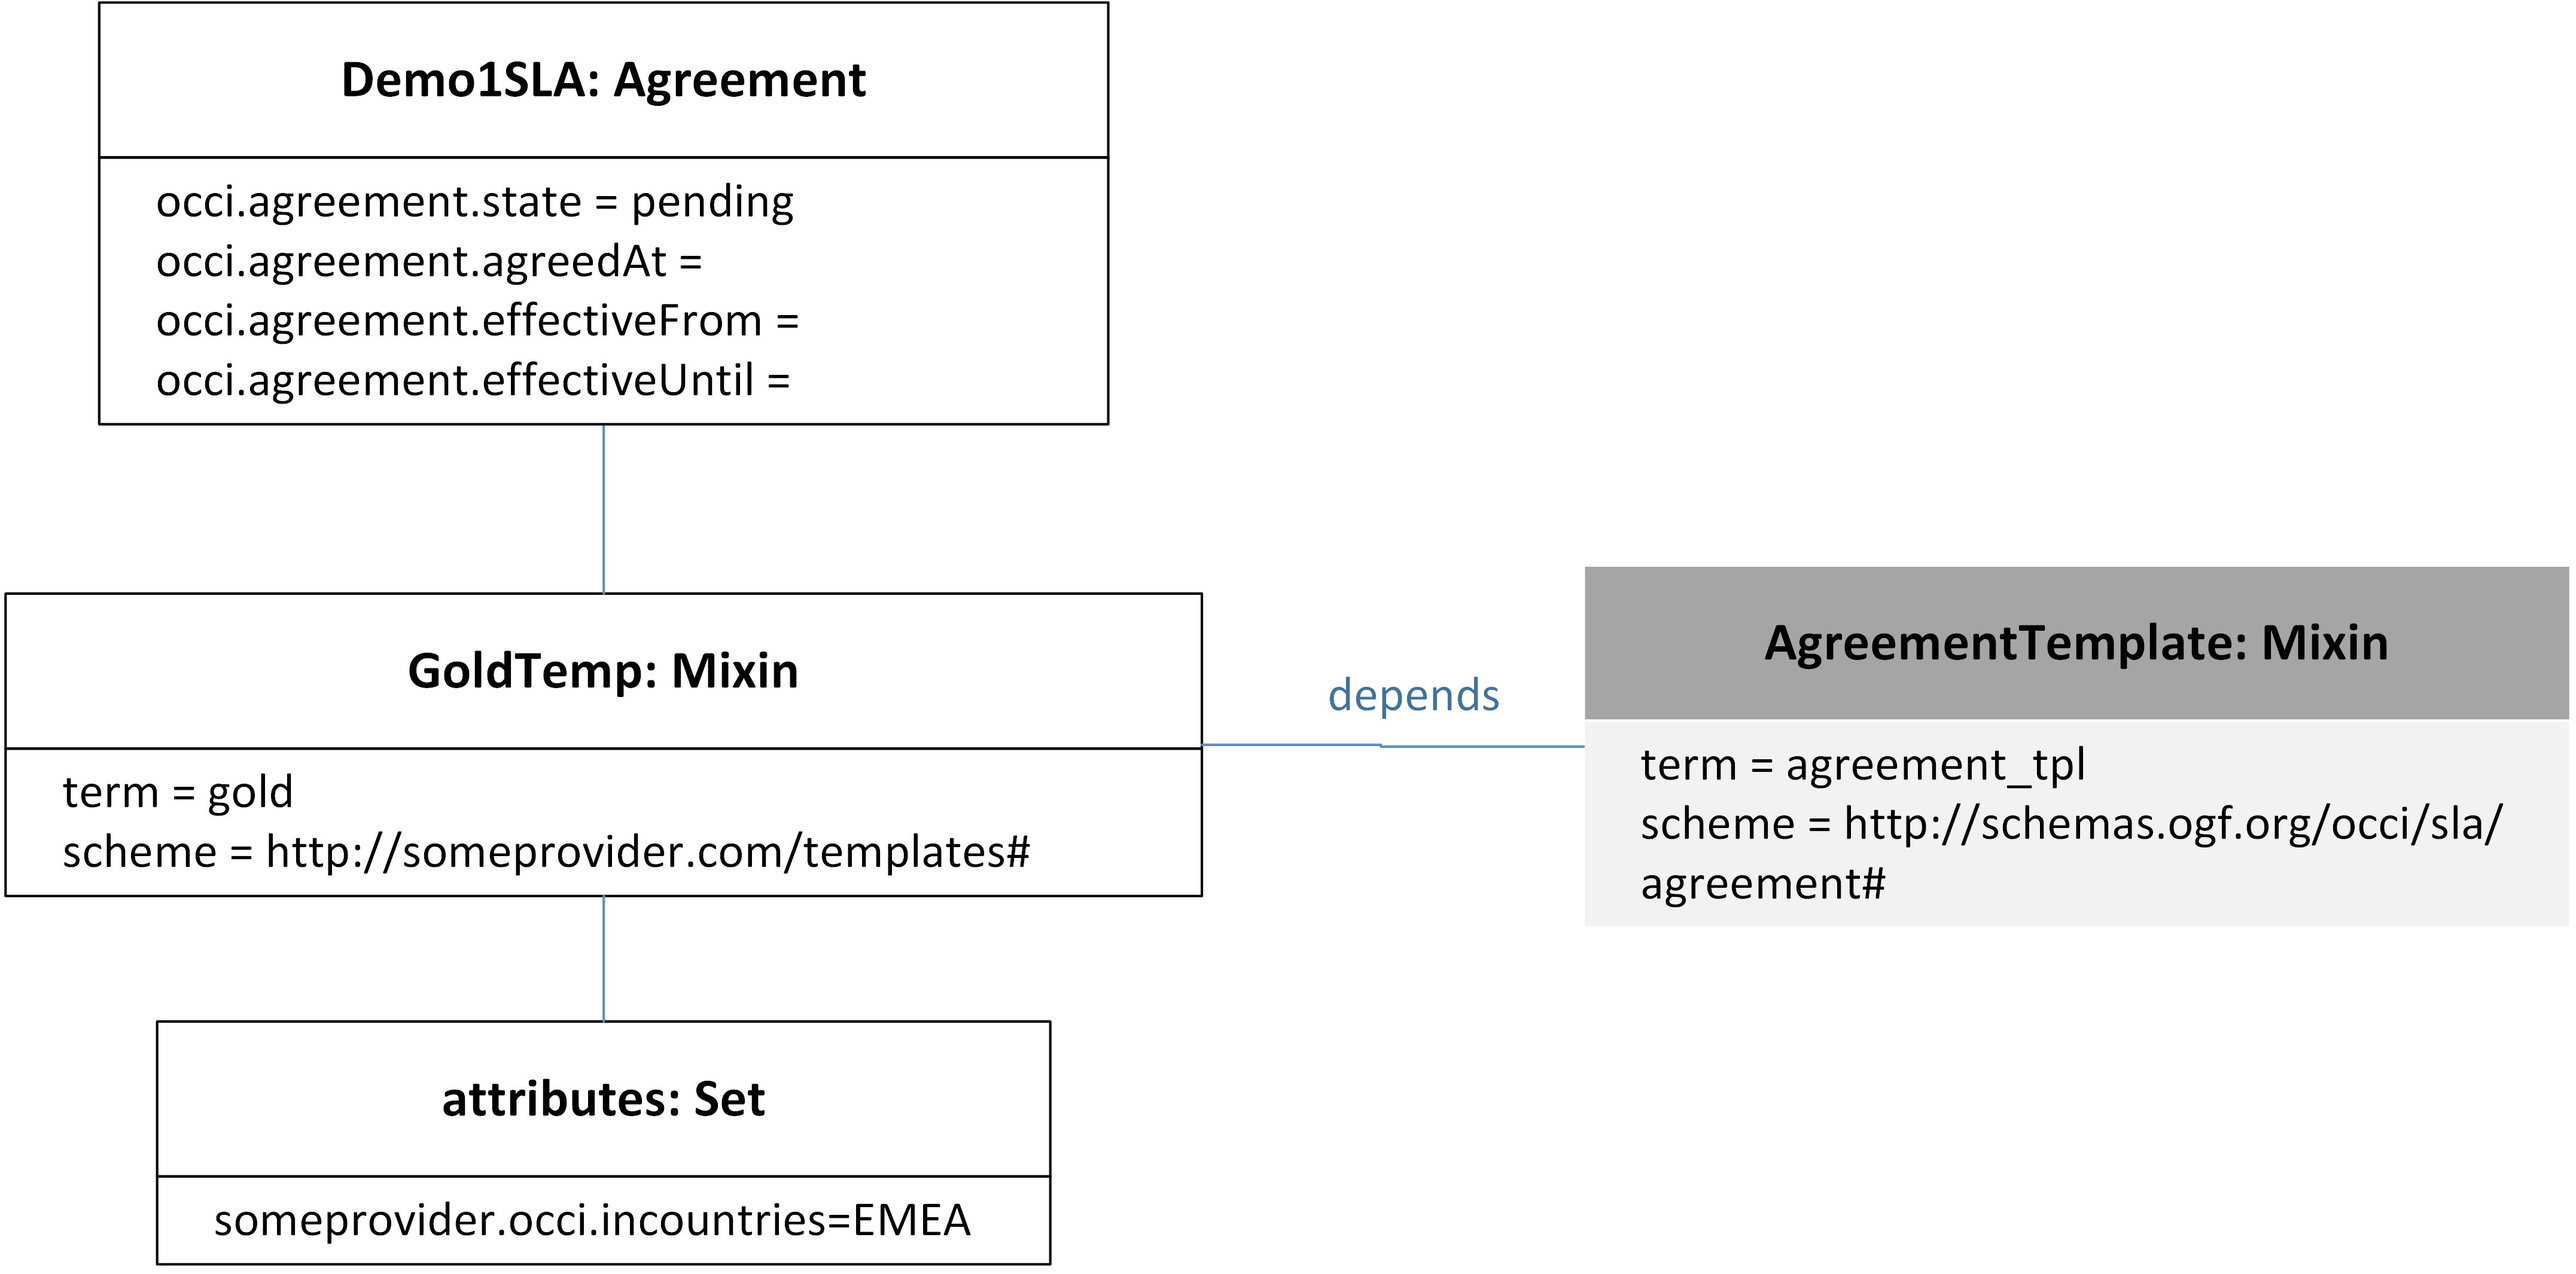
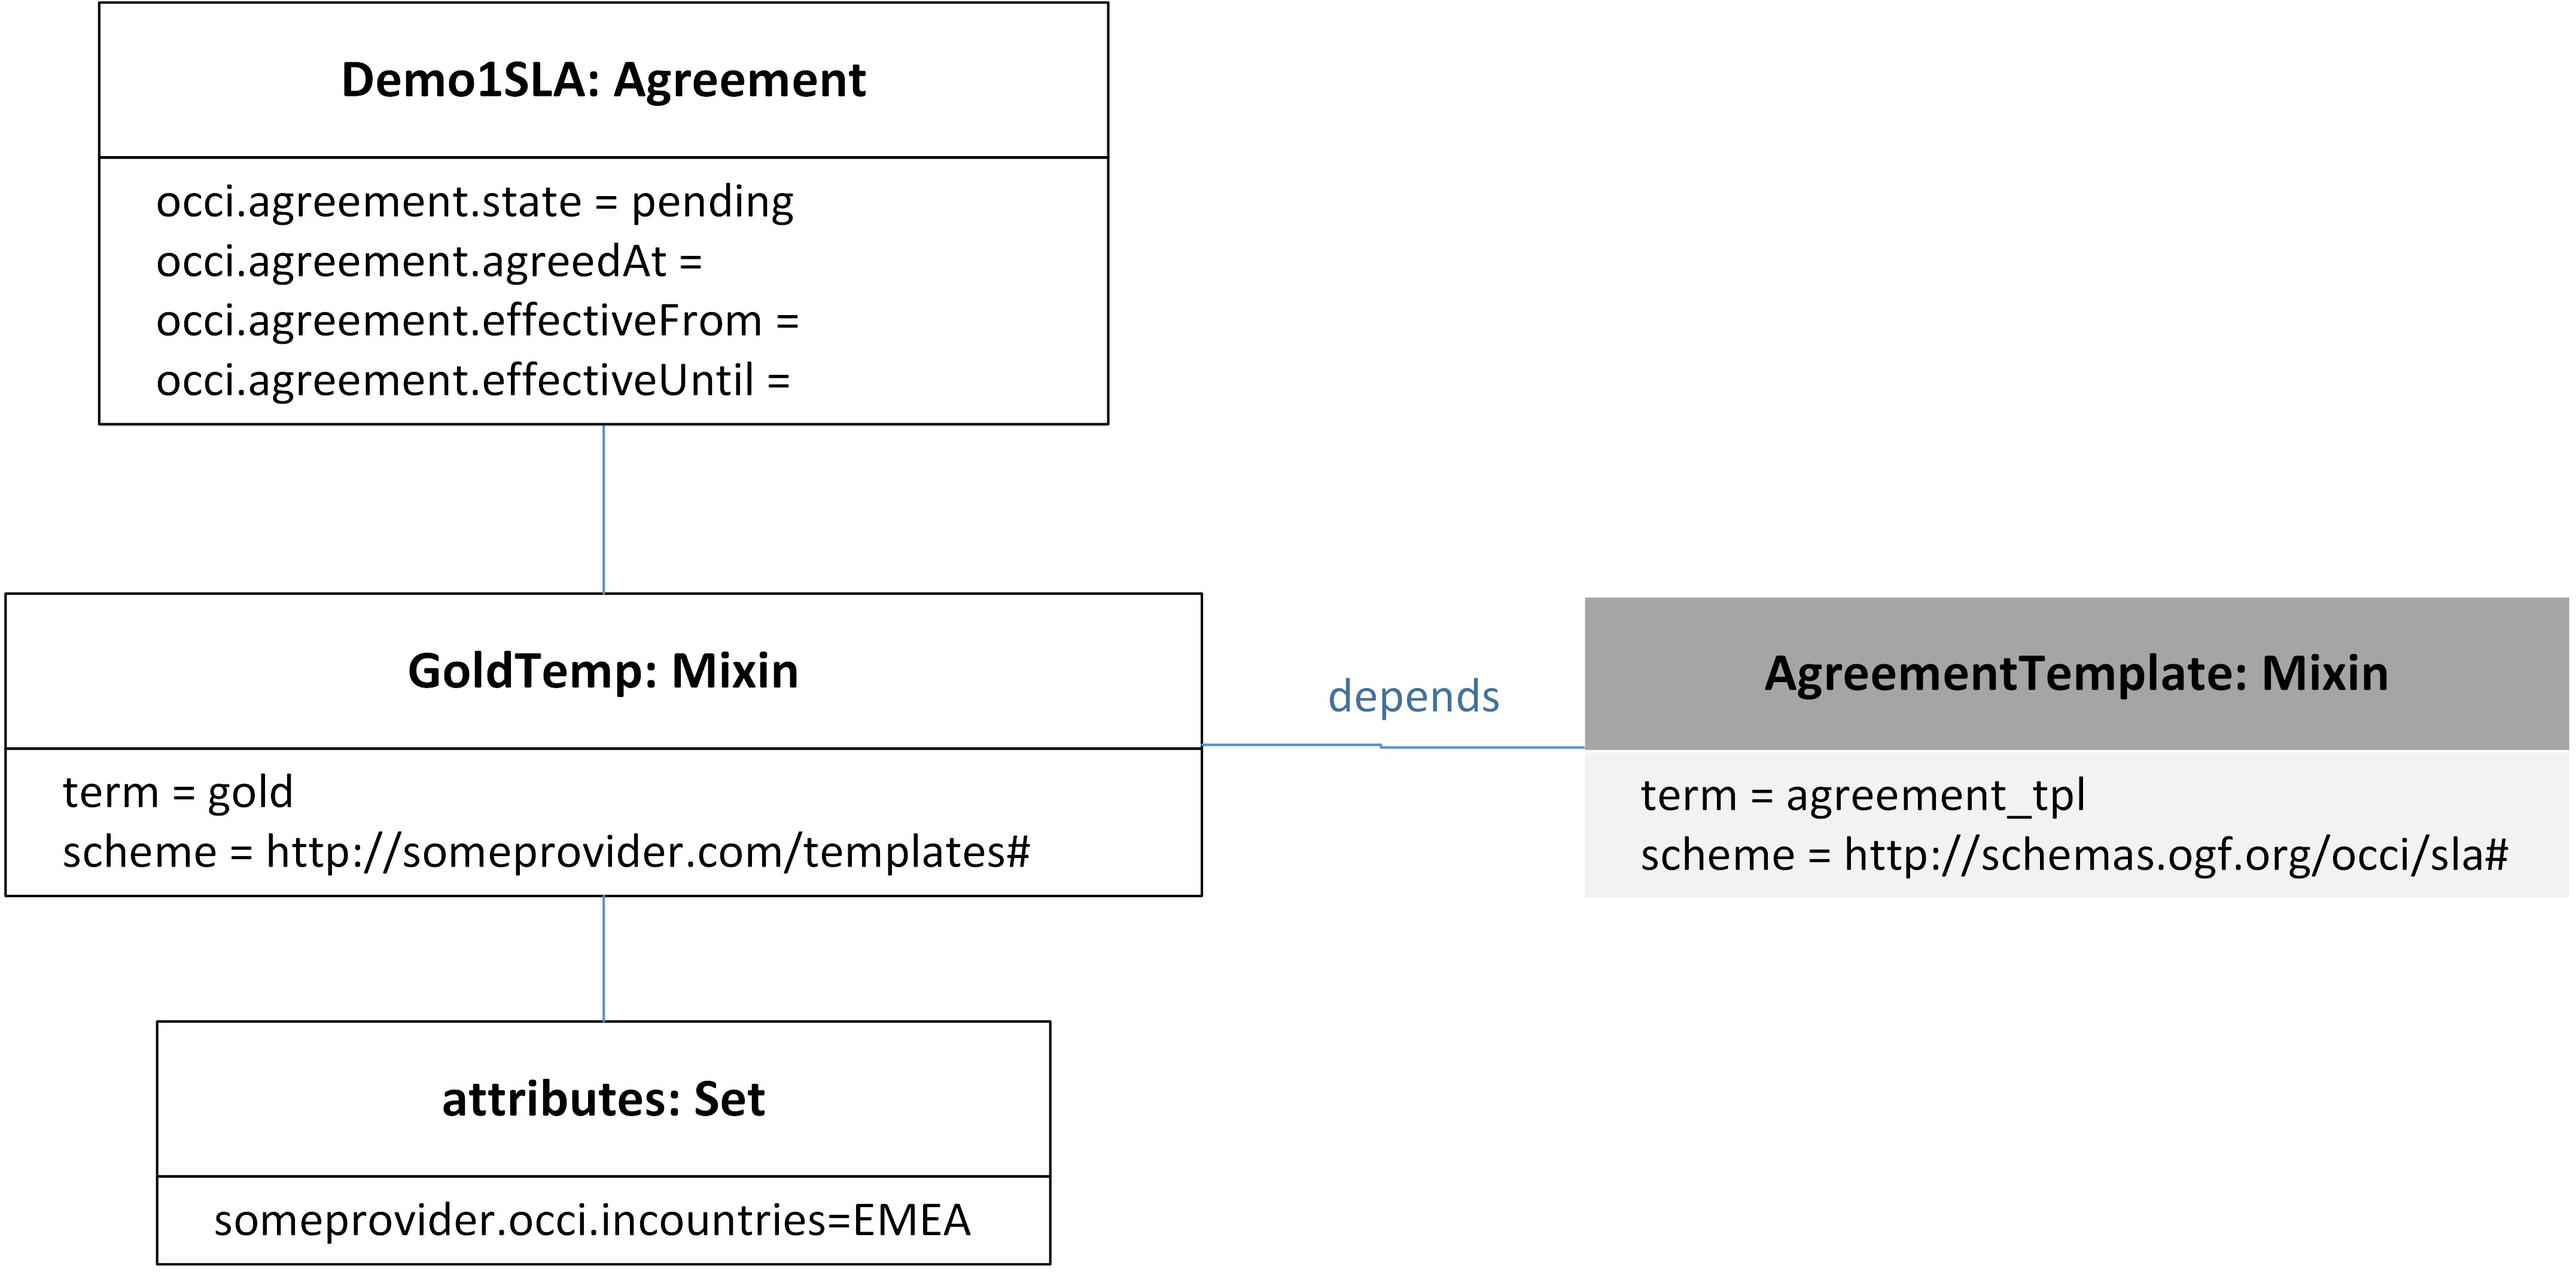
schemas update

Changed region(s): [[0.5913, 0.4336, 1.0, 0.7123], [0.529, 0.5265, 0.5601, 0.5575]]

diff --git a/occi-slas.tex b/occi-slas.tex
@@ -208,7 +208,7 @@ These actions MUST be exposed by an instance of \hl{Agreement} type of an OCCI S
 
 
 \subsubsection{AgreementTemplate Mixin}
-In order to allow the classification of agreements and the provisioning of Service Level Agreement templates, an OCCI \hl{Mixin} is introduced. The \hl{AgreementTemplate Mixin} is assigned the “scheme” \textit{http://schemas.ogf.org/occi/sla/agreement\#} and the term \hl{agreement\_tpl}. An \hl{AgreementTemplate} mixin MUST support these values. The use and instantiation of this \hl{Mixin} is OPTIONAL but RECOMMENDED for improved classification and management of the agreements.  There are no specific attributes defined for the \hl{AgreementTemplate Mixin}, thus every provider that implements the OCCI SLAs specification MAY introduce provider specific attributes using the Attributes Set inherited from the Category type. 
+In order to allow the classification of agreements and the provisioning of Service Level Agreement templates, an OCCI \hl{Mixin} is introduced. The \hl{AgreementTemplate Mixin} is assigned the “scheme” \textit{http://schemas.ogf.org/occi/sla\#} and the term \hl{agreement\_tpl}. An \hl{AgreementTemplate} mixin MUST support these values. The use and instantiation of this \hl{Mixin} is OPTIONAL but RECOMMENDED for improved classification and management of the agreements.  There are no specific attributes defined for the \hl{AgreementTemplate Mixin}, thus every provider that implements the OCCI SLAs specification MAY introduce provider specific attributes using the Attributes Set inherited from the Category type. 
 
 As can be seen in the example diagram bellow, the \hl{AgreementTemplate} mixin can be used either for simple agreement tagging (e.g. gold, silver etc.) of a \hl{Collection} but also for introducing specific attributes and features for each tag.  
 
@@ -219,7 +219,7 @@ As can be seen in the example diagram bellow, the \hl{AgreementTemplate} mixin c
 \end{figure}
 
 \subsubsection{AgreementTerm Mixin}
-A necessary part of an agreement offer, as well as the consequent agreement, is the section of the agreement term. To this end, the OCCI SLAs suggests the introduction of the agreement terms through the \hl{Mixin} mechanism. The \hl{AgreementTerm Mixin} is assigned the “scheme” \textit{http://schemas.ogf.org/occi/sla/agreement\#} and the term \hl{agreement\_term}. An \hl{AgreementTerm} mixin MUST support these values. OCCI SLAs implementations SHOULD support this in order to provide a classification and definition mechanism for the various terms and conditions of the agreements. Therefore, the implementation of this functionality is OPTIONAL but RECOMMENDED. 
+A necessary part of an agreement offer, as well as the consequent agreement, is the section of the agreement term. To this end, the OCCI SLAs suggests the introduction of the agreement terms through the \hl{Mixin} mechanism. The \hl{AgreementTerm Mixin} is assigned the “scheme” \textit{http://schemas.ogf.org/occi/sla\#} and the term \hl{agreement\_term}. An \hl{AgreementTerm} mixin MUST support these values. OCCI SLAs implementations SHOULD support this in order to provide a classification and definition mechanism for the various terms and conditions of the agreements. Therefore, the implementation of this functionality is OPTIONAL but RECOMMENDED. 
 
 Table~\ref{tbl:terms-attributes} shows the defined attributes for the \hl{AgreementTerm Mixin}. Following the rationale presented in the WS-Agreement specification \cite{ws-agreeement:2007} , OCCI SLAs defines two types of agreement terms: service terms and service level objectives (SLOs). The first includes information related with the service description and definition. The second refers to the guarantee terms that specify the service level which the two parties are agreeing to. A cloud service provider MAY introduce domain specific attributes to the \hl{AgreementTerm} mixin instances that he constructs, through the attributes set inherited from the \hl{Category} type. \hl{Mixin} relationships MAY be used in order to enforce classification of capabilities but also to allow resource specific instantiation of \hl{AgreementTerm}. For example, an availability \hl{Mixin} could be defined, which is related with the \hl{AgreementTerm Mixin} type. The provider, then, MAY choose to instantiate different availability mixins for compute or storage resources (or any other offered resource) based on his own definition of availability for those resources. 
 
